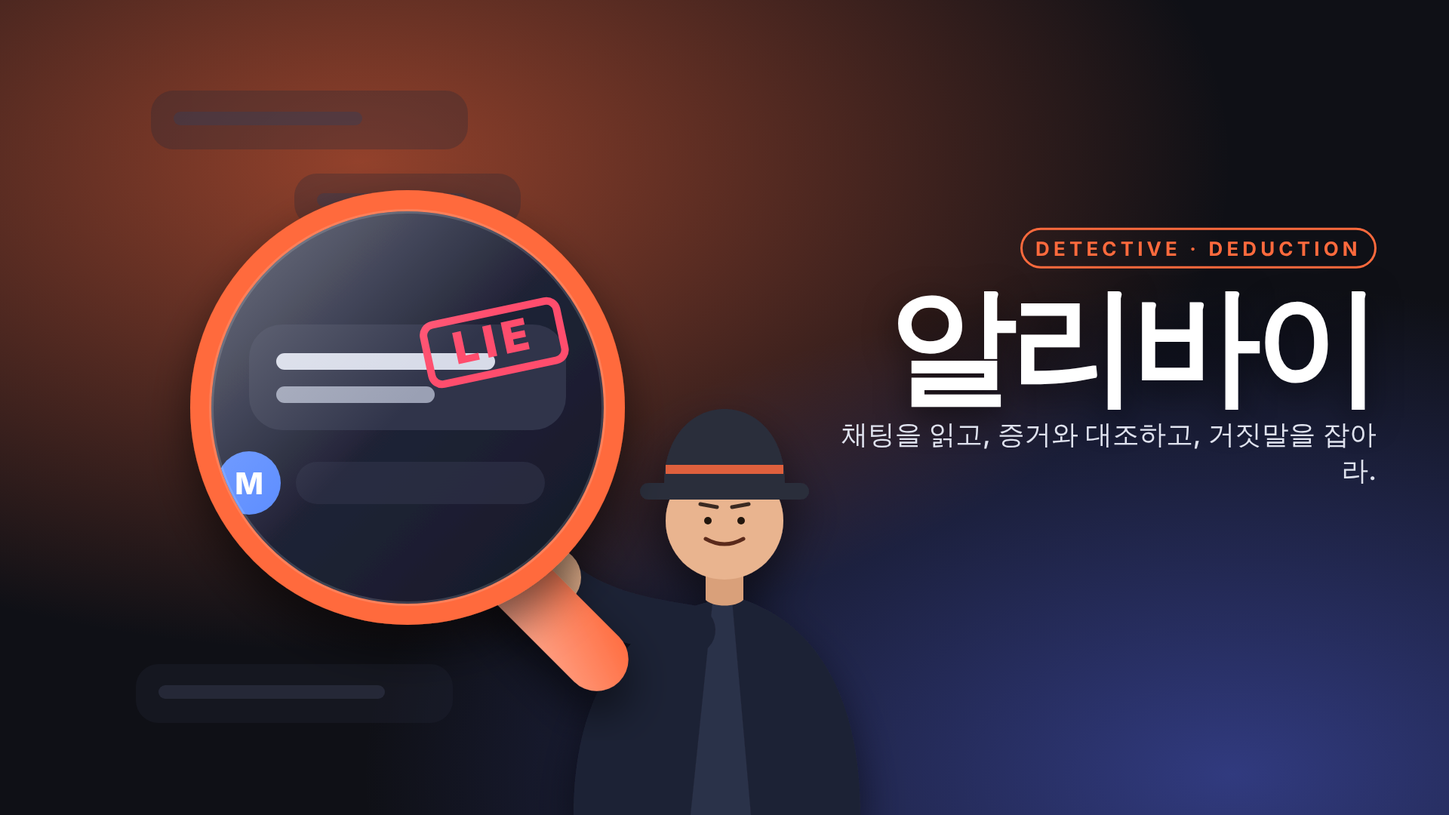
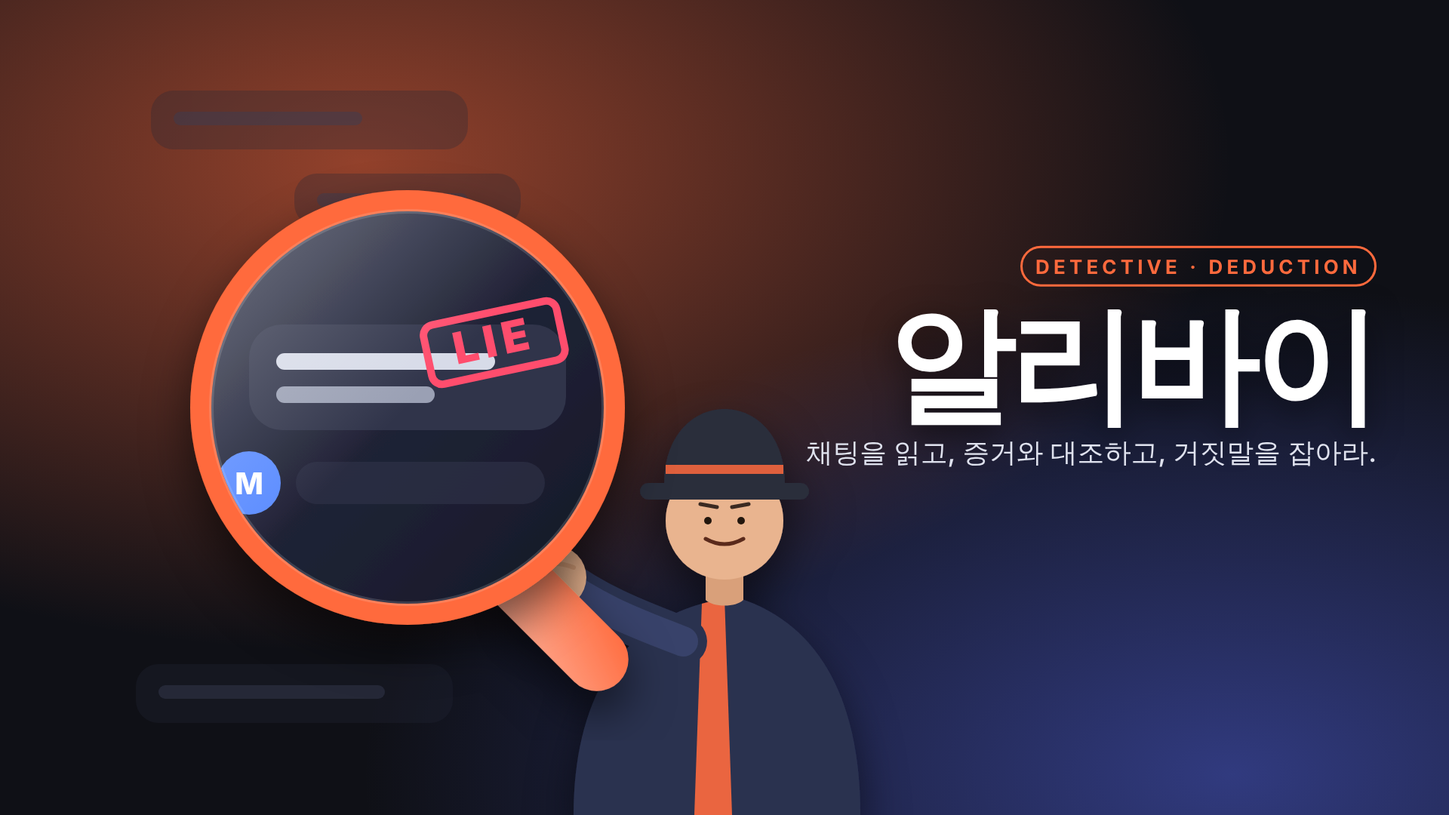
알리바이: 4차 리뷰 반영 — 사진 사건에 실제 그림 장면(용의자 얼굴 포함)과 중립 칩, 창가 '오늘' 수정, 자전거 소개 반전 삭제, 갤러리 이름, 썸네일·결과 화면 손질
Claude-Session: https://claude.ai/code/session_01GtvmLdhHeiEetnrQffLSpt

Changed region(s): [[0.5625, 0.275, 0.9688, 0.5806], [0.375, 0.6722, 0.5938, 1.0]]

diff --git a/games/alibi/js/scenes.js b/games/alibi/js/scenes.js
@@ -1,0 +1,79 @@
+'use strict';
+/* ==========================================================================
+   The photos. Each scene is a flat illustration (SVG, 320×200) for a case
+   whose key evidence is a picture. `face(id, x, y, size, hood)` drops in the
+   suspect's own face, so the player recognizes people from the chat.
+   ========================================================================== */
+const clockFace = (cx, cy, r, h, m) => {
+  const ha = (h % 12 + m / 60) / 12 * Math.PI * 2 - Math.PI / 2, ma = m / 60 * Math.PI * 2 - Math.PI / 2;
+  return `<circle cx="${cx}" cy="${cy}" r="${r}" fill="#fff" stroke="#2b2b33" stroke-width="2"/>` +
+    [0, 1, 2, 3].map(i => { const a = i * Math.PI / 2 - Math.PI / 2; return `<circle cx="${cx + Math.cos(a) * r * .78}" cy="${cy + Math.sin(a) * r * .78}" r="1.2" fill="#2b2b33"/>`; }).join('') +
+    `<path d="M${cx} ${cy}L${cx + Math.cos(ha) * r * .5} ${cy + Math.sin(ha) * r * .5}" stroke="#2b2b33" stroke-width="2.4" stroke-linecap="round"/>` +
+    `<path d="M${cx} ${cy}L${cx + Math.cos(ma) * r * .74} ${cy + Math.sin(ma) * r * .74}" stroke="#2b2b33" stroke-width="1.6" stroke-linecap="round"/><circle cx="${cx}" cy="${cy}" r="1.6" fill="#2b2b33"/>`;
+};
+const person = (x, y, h, color, faceSvg) => `<path d="M${x - h * .32} ${y + h}c0-${h * .34} ${h * .14}-${h * .5} ${h * .32}-${h * .5}s${h * .32} ${h * .16} ${h * .32} ${h * .5}z" fill="${color}"/>${faceSvg}`;
+const rain = (x, y, w, h) => { let s = ''; for (let i = 0; i < 9; i++) s += `<path d="M${x + 6 + i * (w / 9)} ${y + 4 + (i % 3) * 14}l-4 16" stroke="#9fc4e8" stroke-width="1.6" stroke-linecap="round" opacity=".8"/>`; return s; };
+
+const SCENES = {
+  /* café from the window seat: clock, Noa at the machine, the full jar, a hooded yellow figure at the door */
+  window: face => `
+    <rect width="320" height="200" fill="#efe4d2"/>
+    <rect y="130" width="320" height="70" fill="#8b6b4f"/>
+    <rect x="14" y="26" width="86" height="92" rx="4" fill="#bcd6ea" stroke="#5a4634" stroke-width="4"/>${rain(16, 30, 82, 86)}
+    ${clockFace(124, 40, 17, 4, 20)}
+    <path d="M190 110c0-18 10-28 24-28s24 10 24 28z" fill="#5a9a6a"/>${face('noa', 196, 46, 36)}
+    <rect x="112" y="112" width="208" height="30" fill="#5a4634"/><rect x="112" y="108" width="208" height="8" fill="#d9c7a8"/>
+    <rect x="150" y="74" width="54" height="38" rx="4" fill="#2f3140"/><rect x="156" y="80" width="42" height="10" rx="2" fill="#6b6f85"/><rect x="166" y="94" width="8" height="18" fill="#9aa0b4"/>
+    <path d="M176 70q4-8 0-14M184 70q4-8 0-14" stroke="#fff" stroke-width="2" fill="none" opacity=".8"/>
+    <rect x="236" y="78" width="26" height="32" rx="6" fill="#dff1ff" stroke="#8fb6d4" stroke-width="2"/><rect x="238" y="86" width="22" height="22" rx="4" fill="#f2c94c"/><rect x="236" y="74" width="26" height="6" rx="2" fill="#8fb6d4"/><text x="249" y="98" font-size="8" text-anchor="middle" font-family="Inter" font-weight="700" fill="#7a5a00">TIPS</text>
+    <rect x="270" y="30" width="46" height="100" fill="#3b2d22"/><rect x="276" y="36" width="34" height="88" fill="#9fc4e8" opacity=".5"/>
+    <path d="M281 112c0-16 6-28 12-28s12 12 12 28z" fill="#f5c400"/><path d="M283 84c2-10 7-14 10-14s8 4 10 14c-3-3-6-4-10-4s-7 1-10 4z" fill="#f5c400"/>
+    ${face('finn', 283, 66, 20, true)}
+    <rect x="0" y="0" width="320" height="200" fill="none" stroke="#fff" stroke-width="6"/>`,
+
+  /* Hana's selfie at the food stall: the gym clock, the stage, the empty ticket desk behind her */
+  festival: face => `
+    <rect width="320" height="200" fill="#d9d2c4"/>
+    <rect y="140" width="320" height="60" fill="#b8a98d"/>
+    <rect x="200" y="36" width="120" height="76" fill="#2b2440"/>
+    ${[0, 1, 2, 3].map(i => `<path d="M${206 + i * 30} 40l12 40" stroke="#ffd166" stroke-width="5" opacity=".55"/>`).join('')}
+    ${[0, 1, 2].map(i => `<g><rect x="${222 + i * 28}" y="74" width="14" height="28" rx="6" fill="#7b6cff"/><circle cx="${229 + i * 28}" cy="68" r="7" fill="#f0c9a8"/></g>`).join('')}
+    ${clockFace(170, 42, 15, 5, 20)}
+    <rect x="96" y="96" width="112" height="46" fill="#7a5a3a"/><rect x="96" y="92" width="112" height="8" fill="#a07c54"/>
+    <rect x="112" y="60" width="28" height="36" rx="4" fill="#4a4a55"/><rect x="108" y="96" width="36" height="6" fill="#4a4a55"/>
+    <path d="M108 70l10-12h28l10 12-6 4v22h-36v-22z" fill="#2f6bd6"/><path d="M118 58l8 6 8-6" fill="#1f4fa8"/><path d="M108 70l-4 18h8z M156 70l4 18h-8z" fill="#2f6bd6"/>
+    <rect x="156" y="78" width="40" height="18" rx="2" fill="#8d8d99"/><path d="M156 78l20-14h40l-20 14z" fill="#b5b5c2"/><rect x="160" y="82" width="32" height="10" fill="#4e9a5a"/>
+    ${face('hana', 10, 60, 110)}
+    <rect x="0" y="0" width="320" height="200" fill="none" stroke="#fff" stroke-width="6"/>`,
+
+  /* doorbell still: Lia walking back from the side gate, latch up, the dog's nose in the gap */
+  dog: face => `
+    <rect width="320" height="200" fill="#9fd0e8"/>
+    <rect y="110" width="320" height="90" fill="#7fb36b"/>
+    <path d="M0 200l60-90h200l60 90z" fill="#c9c2b4"/>
+    <rect x="236" y="60" width="84" height="80" fill="#8a6a4a"/>
+    ${[0, 1, 2, 3, 4].map(i => `<rect x="${240 + i * 16}" y="64" width="10" height="72" fill="#a3825f"/>`).join('')}
+    <rect x="226" y="52" width="4" height="96" fill="#5a4634"/>
+    <g transform="rotate(-14 226 60)"><rect x="166" y="56" width="62" height="88" fill="#8a6a4a"/>${[0, 1, 2, 3].map(i => `<rect x="${170 + i * 15}" y="60" width="9" height="80" fill="#a3825f"/>`).join('')}</g>
+    <rect x="212" y="80" width="26" height="5" fill="#333" transform="rotate(-50 225 82)"/>
+    <ellipse cx="206" cy="128" rx="18" ry="13" fill="#c9a16b"/><circle cx="194" cy="126" r="6" fill="#4a3a2a"/><circle cx="212" cy="118" r="3" fill="#2b2b33"/><path d="M216 112l8-10 4 12z" fill="#c9a16b"/>
+    ${person(120, 76, 100, '#e8a0bf', face('lia', 92, 72, 56))}
+    <path d="M150 140l10 24h-26z" fill="#f4f4f4" stroke="#999" stroke-width="2"/>
+    <rect x="8" y="8" width="54" height="16" rx="3" fill="rgba(0,0,0,.6)"/><text x="35" y="20" text-anchor="middle" font-size="10" font-family="Inter" font-weight="700" fill="#fff">15:33</text>
+    <rect x="0" y="0" width="320" height="200" rx="18" fill="none" stroke="#111" stroke-width="10"/>`,
+
+  /* gym selfie by the fountain: the clock, the empty front desk, the bare key hook, the propped door */
+  locker: face => `
+    <rect width="320" height="200" fill="#e9ecf2"/>
+    <rect y="138" width="320" height="62" fill="#aab0bd"/>
+    ${clockFace(230, 40, 15, 6, 31)}
+    <rect x="150" y="92" width="110" height="46" fill="#3b4256"/><rect x="150" y="88" width="110" height="8" fill="#6b738a"/>
+    <rect x="176" y="62" width="26" height="30" rx="4" fill="#59627a"/><rect x="172" y="92" width="34" height="5" fill="#59627a"/>
+    <path d="M214 90c6 0 10-4 18-4s8 6 14 6" stroke="#ff6a3d" stroke-width="3" fill="none" stroke-linecap="round"/><rect x="238" y="84" width="10" height="7" rx="1" fill="#fff" stroke="#ff6a3d"/>
+    <rect x="270" y="56" width="40" height="30" rx="3" fill="#c9b08a"/>${[0, 1, 2].map(i => `<path d="M${280 + i * 10} 68v8" stroke="#6b5a3a" stroke-width="2"/><circle cx="${280 + i * 10}" cy="68" r="2" fill="#6b5a3a"/>`).join('')}<text x="290" y="64" text-anchor="middle" font-size="6" font-family="Inter" font-weight="700" fill="#6b5a3a">KEYS</text>
+    <rect x="96" y="50" width="42" height="88" fill="#8a94ab"/><rect x="104" y="54" width="30" height="84" fill="#dfe3ea"/><g transform="rotate(-24 117 96)"><rect x="104" y="54" width="30" height="84" fill="#c7ced9"/></g>
+    <path d="M128 138l8-26h8l8 26z" fill="#ff8a3d"/><rect x="124" y="136" width="30" height="5" fill="#ff8a3d"/><rect x="132" y="122" width="12" height="4" fill="#fff"/>
+    <rect x="40" y="100" width="36" height="40" rx="4" fill="#d8dde6"/><rect x="48" y="90" width="20" height="12" rx="3" fill="#9aa4b6"/><path d="M58 90q6-8 0-14" stroke="#7fc8ff" stroke-width="3" fill="none"/>
+    ${face('member', 6, 70, 92)}
+    <rect x="0" y="0" width="320" height="200" fill="none" stroke="#fff" stroke-width="6"/>`
+};

diff --git a/games/alibi/js/cases-h.js b/games/alibi/js/cases-h.js
@@ -5,8 +5,8 @@ CASES.en.push({
   intro: 'The tip jar was full at twenty past four and empty by twenty-five to five. A customer at the window seat took one photo in between. Study it.',
   suspects: [['noa', 'Noa', 'Barista'], ['finn', 'Finn', 'Regular'], ['mara', 'Mara', 'Manager']],
   facts: [
-    ['📷', 'Customer photo, 16:20, taken from the window seat.', ['wall clock reads 4:20', 'Noa at the espresso machine, steaming milk', 'tip jar on the counter, full to the lid', 'a man in a yellow raincoat with a FINN name patch at the door', 'rain streaking the window']],
-    ['📱', 'Loyalty app check-in: Finn 16:18.'],
+    ['📷', 'Customer photo, 16:20, taken from the window seat.', ['wall clock', 'espresso machine', 'tip jar on the counter', 'front door', 'window']],
+    ['📱', 'Loyalty app: Finn checked in 16:18. His profile picture: a yellow raincoat.'],
     ['🗓', 'Staff schedule: Noa, break 16:22–16:40, out the back door. Back-door log: opened 16:23, 16:39.'],
     ['🏦', 'Mara counted the jar full at 16:20 before leaving; bank deposit slip stamped 16:31, branch two blocks away. Back at 16:35: jar empty.'],
     ['🌧', 'Weather: rain from noon until evening.']
@@ -14,7 +14,7 @@ CASES.en.push({
   chat: [
     { s: 'mara', t: '16:41', m: 'Tip jar is empty. Completely. It was full when I left for the bank at 4:20. Who was here?' },
     { s: 'noa', t: '16:43', m: 'Not me. I was already on my break at 4:20, out back on the step.', ev: 0, lie: 'The photo at 16:20 shows Noa at the espresso machine, steaming milk, with the clock reading 4:20.' },
-    { s: 'finn', t: '16:44', m: "I didn't come in yesterday at all. It was pouring, I stayed home.", ev: 0, lie: 'The photo shows a man in a yellow raincoat with a FINN name patch standing at the door at 16:20.' },
+    { s: 'finn', t: '16:44', m: "I didn't come in today at all. It's been pouring, I stayed home.", ev: 0, lie: 'The photo shows a man in a yellow raincoat at the door at 16:20, the same raincoat as in Finn\'s profile picture, two minutes after his check-in.' },
     { s: 'mara', t: '16:45', m: 'Someone at the window seat took a picture around then. Sending it.' },
     { s: 'noa', t: '16:47', m: 'Okay, fine, I went on break a couple of minutes late. But the jar was still full when I walked out.' },
     { s: 'finn', t: '16:48', m: 'Lots of people own yellow raincoats.', ev: 1, lie: 'The loyalty app has Finn checking in at 16:18, two minutes before the photo.' },
@@ -30,8 +30,8 @@ CASES.ko.push({
   intro: '4시 20분에 가득했던 팁 통이 4시 35분에 비어 있었다. 그 사이에 창가 손님이 사진 한 장을 찍었다. 사진을 잘 보라.',
   suspects: [['noa', '노아', '바리스타'], ['finn', '핀', '단골'], ['mara', '마라', '매니저']],
   facts: [
-    ['📷', '창가 손님 사진, 16:20.', ['벽시계 4시 20분', '노아는 에스프레소 머신 앞에서 우유 스팀 중', '카운터 위 팁 통은 뚜껑까지 가득', '문 앞에 FINN 이름표가 달린 노란 우비 남자', '창문에 빗줄기']],
-    ['📱', '멤버십 앱 체크인: 핀 16:18.'],
+    ['📷', '창가 손님 사진, 16:20.', ['벽시계', '에스프레소 머신', '카운터 위 팁 통', '출입문', '창문']],
+    ['📱', '멤버십 앱: 핀 16:18 체크인. 프로필 사진은 노란 우비 차림.'],
     ['🗓', '근무표: 노아, 휴식 16:22–16:40, 뒷문 이용. 뒷문 기록: 16:23 열림, 16:39 열림.'],
     ['🏦', '마라가 16:20 통 가득 확인 후 외출. 은행 입금 전표 16:31, 두 블록 거리. 16:35 복귀: 통 비어 있음.'],
     ['🌧', '날씨: 정오부터 저녁까지 비.']
@@ -39,7 +39,7 @@ CASES.ko.push({
   chat: [
     { s: 'mara', t: '16:41', m: '팁 통 비었어요. 완전히. 4시 20분에 은행 갈 때는 가득했는데. 누가 있었어요?' },
     { s: 'noa', t: '16:43', m: '저 아니에요. 4시 20분엔 이미 휴식 중이라 뒷문 계단에 있었어요.', ev: 0, lie: '16:20 사진에 노아가 에스프레소 머신 앞에서 우유를 스팀하고 있고, 벽시계는 4시 20분이다.' },
-    { s: 'finn', t: '16:44', m: '저 어제 아예 안 갔어요. 비가 너무 와서 집에 있었어요.', ev: 0, lie: '사진 문 앞에 FINN 이름표가 달린 노란 우비를 입은 남자가 16:20에 서 있다.' },
+    { s: 'finn', t: '16:44', m: '저 오늘 아예 안 갔어요. 비가 너무 와서 집에 있었어요.', ev: 0, lie: '사진 속 문 앞에 노란 우비를 입은 남자가 16:20에 서 있다. 핀의 프로필 사진과 같은 우비이고, 체크인 2분 뒤다.' },
     { s: 'mara', t: '16:45', m: '그때쯤 창가 손님이 사진을 찍었대요. 보낼게요.' },
     { s: 'noa', t: '16:47', m: '네, 솔직히 휴식 몇 분 늦게 나갔어요. 근데 나갈 때 통은 가득했어요.' },
     { s: 'finn', t: '16:48', m: '노란 우비 입은 사람이 한둘인가요.', ev: 1, lie: '멤버십 앱에 핀이 사진 2분 전인 16:18에 체크인한 기록이 있다.' },
@@ -48,12 +48,12 @@ CASES.ko.push({
     { s: 'finn', t: '16:52', m: '그러니까 아무도 아니라는 거네요.' }
   ],
   culprit: 'finn',
-  solve: '사진이 결론을 낸다. 4시 20분에 통은 가득하고, 노아는 아직 머신 앞이고, "집에 있었다"는 핀은 이름표 달린 우비 차림으로 문 앞에 있다. 노아는 16:23에 뒷문으로 나갔고 마라는 16:35까지 은행이었으니, 12분 동안 카운터 앞엔 핀뿐이었다. 노아는 휴식을 늦게 나간 게 들킬까 봐 거짓말했지만, 같은 사진이 그녀를 구한다. 그녀가 있을 때 통은 가득했다.'
+  solve: '사진이 결론을 낸다. 4시 20분에 통은 가득하고, 노아는 아직 머신 앞이고, "집에 있었다"는 핀은 프로필 사진과 같은 노란 우비 차림으로 문 앞에 있다. 노아는 16:23에 뒷문으로 나갔고 마라는 16:35까지 은행이었으니, 12분 동안 카운터 앞엔 핀뿐이었다. 노아는 휴식을 늦게 나간 게 들킬까 봐 거짓말했지만, 같은 사진이 그녀를 구한다. 그녀가 있을 때 통은 가득했다.'
 });
 Object.assign(OUTRO.en, {
   window: [
     { s: 'finn', m: 'A raincoat in a blurry phone picture. That is your whole case?' },
-    { s: 'mara', m: 'A raincoat with FINN stitched on it, at 4:20, two minutes after your app check-in. Not blurry.' },
+    { s: 'mara', m: 'The same yellow raincoat as your profile picture, at 4:20, two minutes after your app check-in. Not blurry.' },
     { s: 'finn', m: "Rent went up and I was forty short. It's a jar of coins, I figured nobody counts it. I'll bring it back tomorrow, all of it." },
     { s: 'noa', m: 'And I said I was out back because I went on break three minutes late and thought I would get blamed. Sorry.' },
     { s: 'mara', m: 'Tomorrow, Finn. In the jar, not in my hand. And Noa, go on break when the schedule says.' }
@@ -62,7 +62,7 @@ Object.assign(OUTRO.en, {
 Object.assign(OUTRO.ko, {
   window: [
     { s: 'finn', m: '흐릿한 폰 사진 속 우비요. 그게 전부예요?' },
-    { s: 'mara', m: 'FINN 박힌 우비요. 4시 20분, 앱 체크인 2분 뒤. 흐릿하지 않아요.' },
+    { s: 'mara', m: '프로필 사진이랑 똑같은 노란 우비요. 4시 20분, 앱 체크인 2분 뒤. 흐릿하지 않아요.' },
     { s: 'finn', m: '월세가 올랐는데 4만 원이 모자랐어요. 동전 통이잖아요, 아무도 안 셀 줄 알았어요. 내일 다 돌려놓을게요.' },
     { s: 'noa', m: '저는 휴식 3분 늦게 나간 게 걸릴까 봐 뒷문에 있었다고 했어요. 죄송해요.' },
     { s: 'mara', m: '내일이에요, 핀. 제 손이 아니라 통에요. 노아는 근무표대로 쉬고요.' }

diff --git a/games/alibi/js/cases-e.js b/games/alibi/js/cases-e.js
@@ -6,7 +6,7 @@ CASES.en.push(
     intro: 'Biscuit the beagle was found two streets away at ten past four. The yard is fenced and the gate has a smart lock. The doorbell camera caught one still that afternoon. Look closely.',
     suspects: [['wren', 'Wren', 'Dog walker'], ['otis', 'Otis', 'Meter reader'], ['lia', 'Lia', 'Neighbor, 15']],
     facts: [
-      ['🔔', 'Doorbell camera still, 15:33.', ['timestamp 15:33', 'Lia walking back from the side gate, treat bag empty', 'side gate behind her: latch up, gate ajar', 'Biscuit in the yard, nose already in the gap', 'no van or vehicle in the street']],
+      ['🔔', 'Doorbell camera still, 15:33.', ['timestamp', 'person on the path', 'side gate latch', 'the dog', 'the street']],
       ['🔐', 'Gate smart lock: locked 13:41 (Wren\'s code) · unlocked 15:32 (Lia\'s code) · "gate left open" alert 15:34. Never re-locked.'],
       ['📍', 'GPS collar: in the yard until 15:36 · through the gate 15:36 · Elm Street 16:10.'],
       ['🧾', 'Utility visit slip: meter read 10:06, "read from the sidewalk, no entry to the yard". Doorbell still 10:05: Otis at the door with a badge.'],
@@ -26,7 +26,7 @@ CASES.en.push(
     solve: 'The 15:33 doorbell still does the work: Lia is walking back from the side gate with an empty treat bag, the latch is up, the gate is ajar, and Biscuit already has his nose in the gap. The lock log matches it, her code at 15:32 and "left open" at 15:34, and the collar has him through the gate at 15:36. Otis lied about his route, but the slip and the morning still put him on the sidewalk at 10:06, five hours earlier, never inside the yard.'
   },
   {
-    id: 'gallery', title: 'Blue Hour', place: 'Gallery Sett · 9:40 pm', difficulty: 3,
+    id: 'gallery', title: 'Blue Hour', place: 'Vireo Gallery · 9:40 pm', difficulty: 3,
     intro: 'Sometime tonight the painting Blue Hour was swapped for a print. The lights went down for a two-minute projection during the toast. Four people were close enough.',
     suspects: [['nell', 'Nell', 'Gallery assistant'], ['hugo', 'Hugo', 'Collector, sponsor'], ['bea', 'Bea', 'Caterer'], ['kai', 'Kai', 'Artist\'s partner']],
     facts: [
@@ -56,7 +56,7 @@ CASES.ko.push(
     intro: '비글 비스킷이 4시 10분에 두 블록 떨어진 곳에서 발견됐다. 마당은 울타리로 막혀 있고 대문엔 스마트 잠금장치가 있다. 그날 오후 초인종 카메라가 사진 한 장을 남겼다. 자세히 보라.',
     suspects: [['wren', '렌', '도그워커'], ['otis', '오티스', '검침원'], ['lia', '리아', '옆집, 15살']],
     facts: [
-      ['🔔', '초인종 카메라 사진, 15:33.', ['타임스탬프 15:33', '옆문 쪽에서 걸어 돌아오는 리아, 빈 간식 봉지', '뒤쪽 옆 대문: 걸쇠 올라감, 문 살짝 열림', '마당의 비스킷, 벌써 틈에 코를 들이밈', '길에 차량 없음']],
+      ['🔔', '초인종 카메라 사진, 15:33.', ['타임스탬프', '길 위의 사람', '옆문 걸쇠', '강아지', '길']],
       ['🔐', '대문 스마트 잠금: 13:41 잠김(렌의 코드) · 15:32 열림(리아의 코드) · 15:34 "대문 열림" 경고. 이후 다시 잠긴 적 없음.'],
       ['📍', 'GPS 목걸이: 15:36까지 마당 · 15:36 대문 통과 · 16:10 엘름 스트리트.'],
       ['🧾', '검침 방문 전표: 10:06 검침, "인도에서 확인, 마당 출입 없음". 초인종 사진 10:05: 배지를 단 오티스가 현관 앞.'],
@@ -76,7 +76,7 @@ CASES.ko.push(
     solve: '15:33 초인종 사진이 다 말해 준다. 리아는 빈 간식 봉지를 들고 옆 대문에서 돌아오는 중이고, 걸쇠는 올라가 있고, 문은 열려 있고, 비스킷은 벌써 틈에 코를 들이밀고 있다. 잠금 기록이 그대로 맞아떨어진다. 15:32 리아의 코드, 15:34 "대문 열림", 그리고 목걸이는 15:36 대문 통과. 오티스는 동선을 거짓말했지만, 전표와 아침 사진은 그를 다섯 시간 전인 10:06에 인도에 두었을 뿐 마당 안엔 없었다.'
   },
   {
-    id: 'gallery', title: '블루 아워', place: '갤러리 세트 · 오후 9:40', difficulty: 3,
+    id: 'gallery', title: '블루 아워', place: '비레오 갤러리 · 오후 9:40', difficulty: 3,
     intro: '오늘 밤 어느 순간 그림 "블루 아워"가 인쇄본으로 바뀌었다. 건배사 도중 2분짜리 영상 상영으로 조명이 꺼졌다. 가까이 있던 사람은 넷.',
     suspects: [['nell', '넬', '갤러리 어시스턴트'], ['hugo', '휴고', '수집가, 후원자'], ['bea', '베아', '케이터링'], ['kai', '카이', '작가의 파트너']],
     facts: [

diff --git a/games/alibi/store/cover-src.html b/games/alibi/store/cover-src.html
@@ -3,7 +3,7 @@
 <style>
 html,body{margin:0;width:100vw;height:100vh;overflow:hidden;background:#0f1016;font-family:'Inter',sans-serif}
 svg{position:absolute;inset:0;width:100%;height:100%}
-.box{position:absolute;right:5%;top:44%;transform:translateY(-50%);text-align:right;width:38%}
+.box{position:absolute;right:5%;top:44%;transform:translateY(-50%);text-align:right;width:40%}
 .badge{display:inline-block;font-size:var(--es);font-weight:700;letter-spacing:.2em;color:#ff6a3d;border:.3vmin solid #ff6a3d;padding:.8vmin 1.6vmin;border-radius:99px;margin-bottom:2vmin}
 h1{margin:0;font-weight:800;font-size:var(--fs);line-height:.9;letter-spacing:-.05em;color:#fff;text-shadow:0 1vmin 4vmin rgba(0,0,0,.6)}
 .sub{color:#dfe2ee;font-size:var(--ss);margin-top:2vmin;font-weight:500}
@@ -25,16 +25,16 @@ body.icon .box{display:none}
  <g opacity=".45" fill="#3a3e55"><rect x="230" y="148" width="250" height="18" rx="9"/><rect x="420" y="256" width="200" height="18" rx="9"/><rect x="210" y="908" width="300" height="18" rx="9"/></g>
  <!-- the detective: coat, head, hat, arm to the handle -->
  <g filter="url(#sh)">
-  <path d="M760 1080c0-150 60-250 170-280l40-10c110 30 170 130 170 290z" fill="#1f2436"/>
-  <path d="M945 790l24-6 26 296h-80z" fill="#2b3148"/>
+  <path d="M760 1080c0-150 60-250 170-280l40-10c110 30 170 130 170 290z" fill="#2b3350"/><path d="M930 800l30-8 10 288h-50z" fill="#ff6a3d" opacity=".9"/>
+  
   <path d="M935 735h50v60c-10 10-40 10-50 0z" fill="#d9a07a"/>
   <circle cx="960" cy="690" r="78" fill="#e9b48f"/>
   <path d="M880 640c0-60 36-98 80-98s80 38 80 98v10H880z" fill="#2a2d3a"/><rect x="848" y="640" width="224" height="22" rx="11" fill="#2a2d3a"/><rect x="882" y="616" width="156" height="12" fill="#ff6a3d" opacity=".85"/>
   <path d="M935 714q25 14 50 0" stroke="#5a2a1a" stroke-width="5" fill="none" stroke-linecap="round"/>
   <circle cx="938" cy="690" r="5" fill="#23170f"/><circle cx="982" cy="690" r="5" fill="#23170f"/>
   <path d="M928 668l22 4M970 672l22-4" stroke="#3a2a22" stroke-width="5" stroke-linecap="round"/>
-  <path d="M915 835c-60-10-130-20-185-70" stroke="#1f2436" stroke-width="66" stroke-linecap="round" fill="none"/>
-  <circle cx="730" cy="765" r="40" fill="#e9b48f"/>
+  <path d="M905 850c-50-20-110-40-170-85" stroke="#2b3350" stroke-width="64" stroke-linecap="round" fill="none"/><path d="M905 850c-50-20-110-40-170-85" stroke="#39436a" stroke-width="40" stroke-linecap="round" fill="none"/>
+  <circle cx="735" cy="765" r="42" fill="#e9b48f"/><path d="M712 752q24-10 48 0" stroke="#d9a07a" stroke-width="6" fill="none" stroke-linecap="round"/>
  </g>
  <g filter="url(#sh)"><rect x="690" y="690" width="84" height="250" rx="42" transform="rotate(-45 732 815)" fill="url(#handle)"/></g>
  <g filter="url(#sh)"><circle cx="540" cy="540" r="288" fill="#ff6a3d"/><circle cx="540" cy="540" r="260" fill="url(#lens)"/></g>
@@ -48,7 +48,7 @@ body.icon .box{display:none}
  <circle cx="540" cy="540" r="260" fill="url(#shine)"/>
  <circle cx="540" cy="540" r="260" fill="none" stroke="#fff" stroke-opacity=".15" stroke-width="6"/>
 </svg>
-<div class="box"><div class="badge">DETECTIVE · DEDUCTION</div><h1 id="h">ALIBI</h1><div class="sub" id="s">Read the chat. Check the evidence. Catch the lie.</div></div>
+<div class="box"><div class="badge">DETECTIVE · DEDUCTION</div><h1 id="h">ALIBI</h1><div class="sub" id="s">Read the chat. Catch the lie.</div></div>
 <script>const q=new URLSearchParams(location.search), m=Math.min(innerWidth, innerHeight*1.5), r=document.documentElement.style;
 r.setProperty('--fs',(m*.105)+'px'); r.setProperty('--ss',(m*.022)+'px'); r.setProperty('--es',(m*.016)+'px');
 const art=document.getElementById('art');

diff --git a/games/alibi/js/cases-f.js b/games/alibi/js/cases-f.js
@@ -8,7 +8,7 @@ CASES.en.push(
     intro: 'Vic came out of spin class to find locker 22 open and his watch gone. Three people were in the building for that hour. A member\'s selfie by the water fountain shows more than she meant it to.',
     suspects: [['pam', 'Pam', 'Front desk'], ['theo', 'Theo', 'Spin instructor'], ['nell', 'Nell', 'Member, locker 23']],
     facts: [
-      ['📷', 'Member selfie by the water fountain, 18:31. Posted with "halfway through spin 💦".', ['wall clock reads 6:31', 'front desk in the background, chair empty', 'master-key hook by the desk, empty', 'locker-room door propped open with a cone', 'Pam\'s lanyard lying on the desk']],
+      ['📷', 'Member selfie by the water fountain, 18:31. Posted with "halfway through spin 💦".', ['wall clock', 'front desk', 'key hook', 'locker-room door', 'desk surface']],
       ['🚪', 'Locker-room turnstile log (member cards only): Vic in 17:55 · Nell in 18:02, out 18:08 · Vic out 19:05. Staff use the staff door, which keeps no log.'],
       ['🗝', 'Master-key sign-out sheet: Pam, 18:25–18:40, reason "member locked out, locker 14". The desk log has no locked-out request all evening; locker 14 has been unassigned since May.'],
       ['🏃', 'Spin studio: attendance scan Vic 18:10, Nell 18:10. Roll call at 18:45: all twelve riders present. Class video shows Theo on the lead bike 18:10–19:00.'],
@@ -61,7 +61,7 @@ CASES.ko.push(
     intro: '빅이 스피닝 수업을 마치고 나오니 22번 사물함이 열려 있고 시계가 사라졌다. 그 한 시간 동안 건물에 있던 사람은 셋. 어느 회원이 정수기 앞에서 찍은 셀카에는 본인이 의도한 것보다 많은 것이 찍혀 있다.',
     suspects: [['pam', '팸', '프런트 직원'], ['theo', '테오', '스피닝 강사'], ['nell', '넬', '회원, 23번 사물함']],
     facts: [
-      ['📷', '회원 셀카, 정수기 앞, 18:31. "스피닝 절반 완료 💦"와 함께 게시.', ['벽시계 6:31', '뒤쪽 프런트 데스크, 의자 비어 있음', '데스크 옆 마스터키 걸이, 비어 있음', '탈의실 문이 콘으로 괴어 열려 있음', '데스크 위에 놓인 팸의 목걸이 사원증']],
+      ['📷', '회원 셀카, 정수기 앞, 18:31. "스피닝 절반 완료 💦"와 함께 게시.', ['벽시계', '프런트 데스크', '키 걸이', '탈의실 문', '데스크 위']],
       ['🚪', '탈의실 회전문 기록(회원 카드만): 빅 입장 17:55 · 넬 입장 18:02, 퇴장 18:08 · 빅 퇴장 19:05. 직원은 기록이 남지 않는 직원용 문을 쓴다.'],
       ['🗝', '마스터키 대출 장부: 팸, 18:25–18:40, 사유 "회원 잠김, 14번 사물함". 프런트 일지에 그날 저녁 잠김 신고는 없음. 14번 사물함은 5월부터 배정되지 않은 빈 칸.'],
       ['🏃', '스피닝 스튜디오: 출석 스캔 빅 18:10, 넬 18:10. 18:45 점호: 12명 전원 자리에 있음. 수업 영상에 테오는 18:10–19:00 내내 앞 자전거에 있다.'],

diff --git a/games/alibi/js/cases.js b/games/alibi/js/cases.js
@@ -84,7 +84,7 @@ const CASES = {
       intro: 'The ticket desk cash box was full at five. At quarter to six it was empty. Three students were on duty, and one of them took a selfie at exactly the wrong moment.',
       suspects: [['hana', 'Hana', 'Food stall'], ['ian', 'Ian', 'Band'], ['jae', 'Jae', 'Ticket desk']],
       facts: [
-        ['🤳', 'Hana\'s selfie at the food stall, 17:20, posted to the class chat.', ['gym wall clock reads 5:20', 'ticket desk in the background, chair empty', 'cash box on the desk, lid open', 'Jae\'s blue jacket hanging on the chair', 'stage lights on, band mid-song']],
+        ['🤳', 'Hana\'s selfie at the food stall, 17:20, posted to the class chat.', ['gym clock', 'ticket desk chair', 'cash box', 'jacket on the chair', 'stage']],
         ['💰', 'Teacher Kim counted the box at 17:00: full, lid closed.'],
         ['🎸', 'Stage video: Ian\'s band played 17:10–17:35, Ian on vocals in every shot.'],
         ['📋', 'Duty roster: Jae on the ticket desk 17:00–18:00, no breaks.']
@@ -223,7 +223,7 @@ const CASES = {
       intro: '5시에 가득 찼던 티켓 부스 현금함이 5시 45분에 비어 있었다. 당번 학생은 셋. 그중 하나가 하필 그 순간에 셀카를 찍었다.',
       suspects: [['hana', '하나', '먹거리 부스'], ['ian', '이안', '밴드'], ['jae', '재', '티켓 부스']],
       facts: [
-        ['🤳', '하나의 셀카, 17:20, 먹거리 부스. 반 단톡방에 올림.', ['체육관 벽시계 5:20', '뒤쪽 티켓 부스, 의자는 비어 있음', '책상 위 현금함, 뚜껑 열림', '의자에 걸린 재의 파란 점퍼', '무대 조명 켜짐, 밴드 연주 중']],
+        ['🤳', '하나의 셀카, 17:20, 먹거리 부스. 반 단톡방에 올림.', ['체육관 시계', '티켓 부스 의자', '현금함', '의자에 걸린 점퍼', '무대']],
         ['💰', '김 선생님이 17:00에 현금함 확인: 가득 참, 뚜껑 닫힘.'],
         ['🎸', '무대 영상: 이안의 밴드 공연 17:10–17:35, 모든 장면에 이안이 보컬.'],
         ['📋', '당번표: 재, 티켓 부스 17:00–18:00, 휴식 없음.']

diff --git a/games/alibi/js/ui.js b/games/alibi/js/ui.js
@@ -142,7 +142,11 @@ function renderCase() {
   for (const [ic, t, photo] of c.facts) {
     const f = el('div', 'fact' + (photo ? ' photo' : '')), body = el('div');
     body.append(t);
-    if (photo) { const z = el('div', 'zoom'); for (const d of photo) z.appendChild(el('span', null, d)); body.appendChild(z); }
+    if (photo) {
+      const sc = sceneSVG(c);
+      if (sc) { const img = el('div', 'photo-img'); img.innerHTML = sc; img.onclick = () => openPhoto(c); body.appendChild(img); }
+      const z = el('div', 'zoom'); for (const d of photo) z.appendChild(el('span', null, d)); body.appendChild(z);
+    }
     f.append(el('div', 'ic', ic), body); ev.appendChild(f);
   }
   const su = $('susList'); su.innerHTML = '';
@@ -159,6 +163,19 @@ function renderCase() {
     s.append(av, info); su.appendChild(s);
   }
   setTab(tab); renderMeters();
+}
+/* a case photo: the scene with the suspects' real faces dropped in */
+function sceneSVG(c) {
+  const sc = typeof SCENES !== 'undefined' && SCENES[c.id]; if (!sc) return null;
+  const face = (id, x, y, size, hood) => {
+    const inner = faceSVG(c.id + ':' + id).replace(/^<svg[^>]*>/, '').replace(/<\/svg>$/, '').replace(/<rect width="64" height="64"[^>]*\/>/, '');
+    return `<svg x="${x}" y="${y}" width="${size}" height="${size}" viewBox="0 0 64 64">${inner}${hood ? '<path d="M8 36c0-20 10-30 24-30s24 10 24 30c-6-8-14-12-24-12S14 28 8 36z" fill="#f5c400"/>' : ''}</svg>`;
+  };
+  return `<svg viewBox="0 0 320 200" xmlns="http://www.w3.org/2000/svg">${sc(face)}</svg>`;
+}
+function openPhoto(c) {
+  const d = el('div', 'modal photo-modal'), card = el('div', 'photo-big'); card.innerHTML = sceneSVG(c);
+  d.appendChild(card); d.onclick = () => d.remove(); document.body.appendChild(d);
 }
 /* the guide for the very first case: five steps, each pointing at the next thing to press */
 let coach = -1;

diff --git a/games/alibi/js/cases-j.js b/games/alibi/js/cases-j.js
@@ -2,7 +2,7 @@
 /* ALIBI — case pack J: the lie that proves innocence */
 CASES.en.push({
   id: 'bike', title: 'The Missing E-Bike', place: 'Maple Court, 3rd-floor hallway · 10:45 pm', difficulty: 2,
-  intro: 'Lin\'s electric bike vanished from the hallway rack between 22:00 and 22:30. Four people had the hallway that evening. The loudest liar is not the thief.',
+  intro: 'Lin\'s electric bike vanished from the hallway rack between 22:00 and 22:30. Four people had the hallway that evening.',
   suspects: [['dae', 'Dae', 'Lin\'s roommate'], ['lin', 'Lin', 'Bike owner'], ['owen', 'Owen', 'Delivery rider, 3C'], ['piper', 'Piper', 'Building super']],
   facts: [
     ['🚪', 'Stairwell door log: Owen out 22:12 (delivery jacket on the camera) · Piper in 22:40 · Dae in 22:52. No other exits 22:00–22:30.'],
@@ -27,7 +27,7 @@ CASES.en.push({
 });
 CASES.ko.push({
   id: 'bike', title: '사라진 전기자전거', place: '메이플 코트 3층 복도 · 오후 10:45', difficulty: 2,
-  intro: '린의 전기자전거가 22:00에서 22:30 사이 복도 거치대에서 사라졌다. 그날 저녁 복도를 지난 사람은 넷. 가장 크게 거짓말하는 사람이 도둑은 아니다.',
+  intro: '린의 전기자전거가 22:00에서 22:30 사이 복도 거치대에서 사라졌다. 그날 저녁 복도를 지난 사람은 넷.',
   suspects: [['dae', '대현', '린의 룸메이트'], ['lin', '린', '자전거 주인'], ['owen', '오웬', '배달 기사, 3C호'], ['piper', '파이퍼', '관리인']],
   facts: [
     ['🚪', '계단실 문 기록: 오웬 22:12 나감(카메라에 배달 조끼) · 파이퍼 22:40 들어옴 · 대현 22:52 들어옴. 22:00–22:30 사이 다른 출입 없음.'],

diff --git a/games/alibi/style.css b/games/alibi/style.css
@@ -220,3 +220,21 @@ button{cursor:pointer;border:0;background:none;padding:0}
 .zoom span::before{content:"🔍 ";font-size:10px}
 .zoom.small{margin-top:6px}
 .zoom.small span{background:rgba(255,255,255,.1);color:var(--ink)}
+
+/* result on a wide screen: text left, the culprit large on the right */
+@media (min-width:760px) and (min-aspect-ratio:1/1){
+  #result .hero{max-width:1100px;display:grid;grid-template-columns:1.1fr .9fr;align-items:center;gap:40px}
+  #result .res-head{flex-direction:column;grid-column:2;grid-row:1/6;align-items:center;justify-self:center}
+  #result .res-head>div{text-align:center}
+  #result .res-face{width:220px;height:220px;border-width:6px}
+  #result .res-face::after{font-size:13px;padding:5px 12px;bottom:12px}
+  #result .stars,#result .lede,#result .res-meta,#result .btn,#result .row{grid-column:1}
+}
+
+/* the photo itself */
+.photo-img{margin-top:8px;border-radius:8px;overflow:hidden;background:#fff;box-shadow:0 4px 14px rgba(0,0,0,.25);cursor:zoom-in}
+.photo-img svg{display:block;width:100%;height:auto}
+.photo-modal{cursor:zoom-out}
+.photo-big{width:min(900px,96vw);border-radius:12px;overflow:hidden;box-shadow:0 30px 80px rgba(0,0,0,.6)}
+.photo-big svg{display:block;width:100%;height:auto}
+.evpick .zoom.small{display:none}

diff --git a/games/alibi/index.html b/games/alibi/index.html
@@ -80,6 +80,7 @@
 <script src="js/cases-h.js"></script>
 <script src="js/cases-i.js"></script>
 <script src="js/cases-j.js"></script>
+<script src="js/scenes.js"></script>
 <script src="js/outro-1.js"></script>
 <script src="js/outro-2.js"></script>
 <script src="js/i18n.js"></script>

diff --git a/games/alibi/HANDOFF.md b/games/alibi/HANDOFF.md
@@ -24,6 +24,8 @@
 
 **확인 못 한 것**: 진짜 CrazyGames SDK(이 환경에서 접속 불가), 사람이 직접 한 플레이.
 
+**네 번째 리뷰 반영**: 창가 사건 "어제→오늘" 수정, 사진 사건 4개에 실제 그림 장면 추가(얼굴 생성기로 용의자 얼굴을 그림에 넣음)와 칩에서 정답 제거(핀의 이름표 → 프로필 사진의 노란 우비), 자전거 사건 소개에서 반전 문장 삭제, 갤러리 이름을 비레오 갤러리로, 썸네일 인물·부제 손질, 결과 화면을 가로에서 두 단(오른쪽에 범인 얼굴 크게).
+
 **세 번째 리뷰 반영**: 가로 배치 기준을 760px 가로형으로 낮춤(821×462 노트북 창도 가로 배치), 안내 말풍선을 채팅 맨 위 고정으로 옮겨 메시지를 가리지 않음, '유출된 초안' 시간 오류 수정(클레오 20:15), 썸네일에 탐정 인물 추가, 얼굴 생성기 변형 확대(얼굴형·머리 9종·모자·안경 3종·수염·주근깨 등), 결과 화면에 범인 얼굴 크게, 설명 '20 cases'. 사물함·드론·화병·축제·빵집·대문·노래방 사건을 변주를 넣어 다시 씀(사진 단서 / 엇갈리는 증거 / 결백의 거짓말). 이제 1:1 구조인 사건은 케이크(튜토리얼이라 의도)뿐. 변주 분포: 사진 단서 4(창가, 축제, 대문, 사물함), 엇갈리는 증거 3(시계, 빵집, 드론), 결백의 거짓말 4(자전거, 화병, 노래방, 사물함).
 
 **두 번째 리뷰에서 남은 지적(이 컨셉으로는 못 고치는 것)**: 글을 읽어야 하는 게임이라 10대 중심 포털에서 이탈이 크고 광고 자리가 적어 수익성이 낮음. 앞쪽 쉬운 사건의 거짓말이 증거와 1:1로 바로 맞닿아 추리보다 대조에 가까움(사진 단서, 엇갈리는 증거 같은 변주는 뒤쪽 사건에만 있음).

diff --git a/games/alibi/README.md b/games/alibi/README.md
@@ -51,7 +51,7 @@
 
 사건 1~6은 `js/cases.js`, 7~8은 `js/cases-a.js`, 9~10은 `js/cases-b.js`, 11~12는 `js/cases-c.js`, 13~14는 `js/cases-d.js`, 15~16은 `js/cases-e.js`, 17~18은 `js/cases-f.js`, 19~20은 `js/cases-g.js`, 21~23은 `js/cases-h/i/j.js`(자백 대사 포함)에 있습니다.
 
-**사진 증거**: `facts` 항목에 세 번째 원소로 세부 항목 배열을 넣으면 사진 카드와 돋보기 칩으로 보여 줍니다. 예: `['📷', '손님 사진, 16:20', ['벽시계 4:20', '노아는 머신 앞', ...]]`
+**사진 증거**: `facts` 항목에 세 번째 원소로 항목 배열을 넣으면 사진 카드로 보여 줍니다. 칩은 "벽시계", "출입문"처럼 **무엇이 찍혔는지만** 적고, 내용은 그림이 말하게 합니다. 그림은 `js/scenes.js`에 사건 id별 SVG 장면으로 있고, 용의자 얼굴은 얼굴 생성기에서 가져와 그림에 넣으니 플레이어가 채팅의 얼굴과 대조해야 합니다. 누르면 크게 봅니다.
 `node games/alibi/tools/lint-cases.mjs`로 모든 사건의 구조와 공정성 규칙(거짓말 2개 이상, 범인도 거짓말, 두 언어 구조 일치 등)을 검사합니다.
 
 ## 광고 (포털 빌드에서만)
@@ -79,6 +79,7 @@ node games/alibi/build.mjs crazygames # 하나만
 | --- | --- |
 | `js/cases.js`, `cases-a` ~ `cases-j.js` | 사건 23개 (한국어·영어) |
 | `js/outro-1.js`, `outro-2.js` | 지목 뒤 자백 대사 (사건 id별) |
+| `js/scenes.js` | 사진 사건 4개의 그림 장면 (창가, 축제, 대문, 사물함) |
 | `tools/lint-cases.mjs` | 사건 구조·공정성 검사 |
 | `js/i18n.js` | 언어, 인터페이스 문구 |
 | `js/game.js` | 진행, 판정, 별 점수, 힌트, 저장. DOM 없음 |
